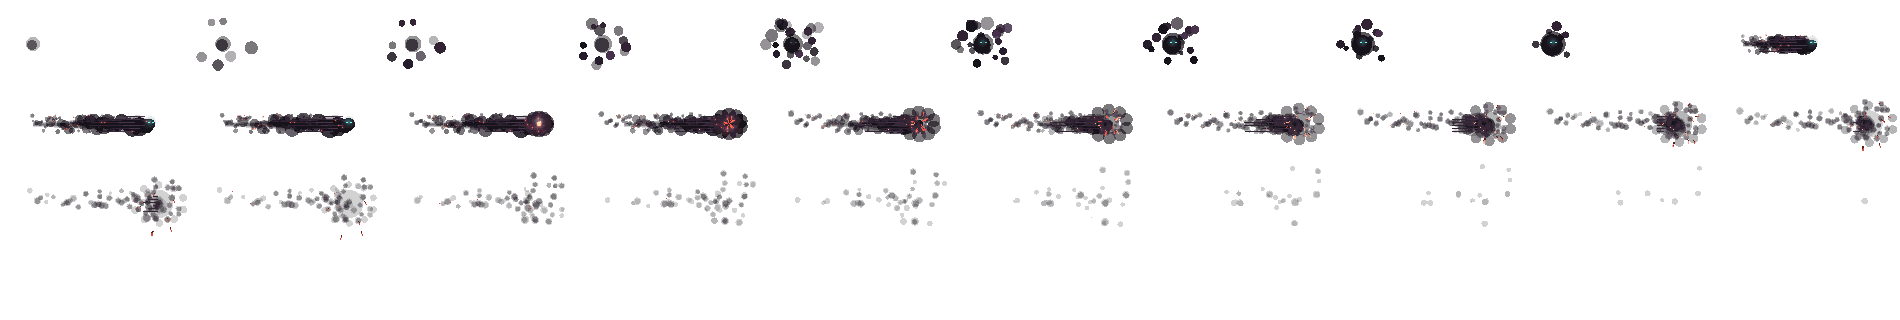
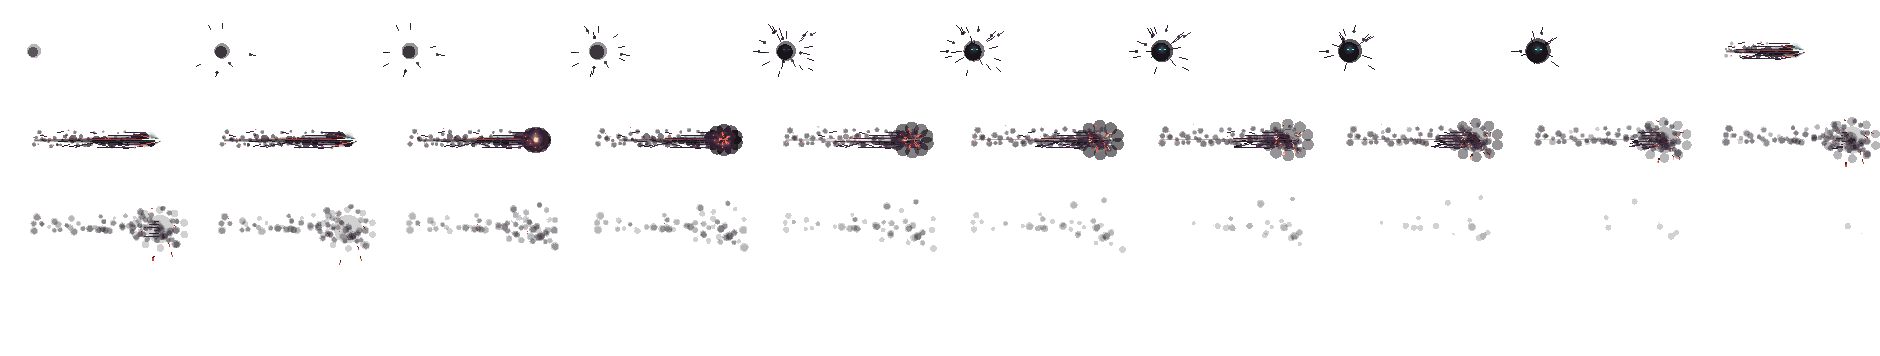
처형인 연기 돌진 더 날카롭게: 모일 때 연기 줄기, 쐐기 머리, 붉은 칼날 선, 깎여 나가는 조각, 멈춘 뒤 지나간 길이 베이듯 번쩍
Claude-Session: https://claude.ai/code/session_01CPuQwRxjahy2BkbhjWZhoU

diff --git a/test/golem.html b/test/golem.html
@@ -491,7 +491,7 @@ const giantImg = new Image(); giantImg.src = "../assets/giant.png";
 // 골렘 이펙트 시트 (pixelfx로 만든 것: fire/golem-meteor, nature/lava-crater, nature/lava-spire → art/golemfx/golemfx_pack.py). px, py = 착지점
 const GFX = {"meteor": {"w": 238, "h": 300, "cols": 8, "n": 64, "fps": 15, "px": 130, "py": 270}, "crater": {"w": 232, "h": 132, "cols": 8, "n": 47, "fps": 15, "px": 116, "py": 104}, "spire": {"w": 176, "h": 114, "cols": 11, "n": 40, "fps": 15, "px": 88, "py": 98}};
 GFX.lance = {"w": 248, "h": 56, "n": 17, "fps": 30, "px": 8, "py": 28, "L": 224};   // pixelfx melee/spectral-comet (전엔 spectral-lance): 세로로 쌓은 프레임, 창 길이 L 을 돌진 거리만큼 늘려 그린다
-Object.assign(GFX, {"xsmoke":{"w":190,"h":80,"cols":10,"n":31,"fps":30,"px":33,"py":60},"wring":{"w":128,"h":60,"cols":13,"n":13,"fps":14,"px":64,"py":47},"wstar":{"w":51,"h":48,"cols":6,"n":6,"fps":14,"px":25,"py":24},"wwind":{"w":80,"h":34,"cols":15,"n":15,"fps":14,"px":40,"py":17},"whit":{"w":54,"h":59,"cols":8,"n":8,"fps":16,"px":27,"py":29},"harrow":{"w":57,"h":15,"cols":35,"n":12,"fps":30,"px":52,"py":8},"hpow":{"w":139,"h":34,"cols":14,"n":12,"fps":30,"px":128,"py":17},"hrel":{"w":71,"h":63,"cols":28,"n":11,"fps":30,"px":15,"py":32},"hring":{"w":24,"h":24,"cols":85,"n":7,"fps":30,"px":6,"py":12},"hringw":{"w":24,"h":24,"cols":85,"n":7,"fps":30,"px":6,"py":12},"harroww":{"w":57,"h":15,"cols":35,"n":12,"fps":30,"px":52,"py":8},"hchg":{"w":38,"h":40,"cols":53,"n":18,"fps":30,"px":19,"py":20},"hchg3":{"w":44,"h":43,"cols":46,"n":18,"fps":30,"px":19,"py":21},"hlbolt":{"w":102,"h":13,"cols":20,"n":9,"fps":30,"px":96,"py":6},"hlbeam":{"w":300,"h":50,"cols":6,"n":15,"fps":30,"px":12,"py":25},"himp":{"w":44,"h":24,"cols":46,"n":11,"fps":30,"px":22,"py":18},"hrain":{"w":74,"h":15,"cols":27,"n":9,"fps":30,"px":70,"py":7},"hrainw":{"w":74,"h":15,"cols":27,"n":9,"fps":30,"px":70,"py":7},"whowl":{"w":220,"h":125,"cols":9,"n":24,"fps":30,"px":110,"py":97},"wice":{"w":56,"h":58,"cols":9,"n":9,"fps":14,"px":28,"py":56},"wbreak":{"w":56,"h":58,"cols":11,"n":11,"fps":14,"px":28,"py":56},});   // 사냥꾼: 영상 이펙트를 pixelfx로 (화살·흰 화살·빔 화살·쏘는 고리·모으기) (pixelfx projectiles/emerald-*, art/hunterfx/hunterfx_pack.py)
+Object.assign(GFX, {"xsmoke":{"w":188,"h":89,"cols":10,"n":31,"fps":30,"px":34,"py":67},"wring":{"w":128,"h":60,"cols":13,"n":13,"fps":14,"px":64,"py":47},"wstar":{"w":51,"h":48,"cols":6,"n":6,"fps":14,"px":25,"py":24},"wwind":{"w":80,"h":34,"cols":15,"n":15,"fps":14,"px":40,"py":17},"whit":{"w":54,"h":59,"cols":8,"n":8,"fps":16,"px":27,"py":29},"harrow":{"w":57,"h":15,"cols":35,"n":12,"fps":30,"px":52,"py":8},"hpow":{"w":139,"h":34,"cols":14,"n":12,"fps":30,"px":128,"py":17},"hrel":{"w":71,"h":63,"cols":28,"n":11,"fps":30,"px":15,"py":32},"hring":{"w":24,"h":24,"cols":85,"n":7,"fps":30,"px":6,"py":12},"hringw":{"w":24,"h":24,"cols":85,"n":7,"fps":30,"px":6,"py":12},"harroww":{"w":57,"h":15,"cols":35,"n":12,"fps":30,"px":52,"py":8},"hchg":{"w":38,"h":40,"cols":53,"n":18,"fps":30,"px":19,"py":20},"hchg3":{"w":44,"h":43,"cols":46,"n":18,"fps":30,"px":19,"py":21},"hlbolt":{"w":102,"h":13,"cols":20,"n":9,"fps":30,"px":96,"py":6},"hlbeam":{"w":300,"h":50,"cols":6,"n":15,"fps":30,"px":12,"py":25},"himp":{"w":44,"h":24,"cols":46,"n":11,"fps":30,"px":22,"py":18},"hrain":{"w":74,"h":15,"cols":27,"n":9,"fps":30,"px":70,"py":7},"hrainw":{"w":74,"h":15,"cols":27,"n":9,"fps":30,"px":70,"py":7},"whowl":{"w":220,"h":125,"cols":9,"n":24,"fps":30,"px":110,"py":97},"wice":{"w":56,"h":58,"cols":9,"n":9,"fps":14,"px":28,"py":56},"wbreak":{"w":56,"h":58,"cols":11,"n":11,"fps":14,"px":28,"py":56},});   // 사냥꾼: 영상 이펙트를 pixelfx로 (화살·흰 화살·빔 화살·쏘는 고리·모으기) (pixelfx projectiles/emerald-*, art/hunterfx/hunterfx_pack.py)
 const gfxImg = {}; for (const k in GFX) { gfxImg[k] = new Image(); gfxImg[k].src = `../assets/gfx_${k}.png`; }
 const GFX_METEOR_HIT = 0.8, GFX_SPIRE_UP = 0.2;            // 시트 안에서 운석이 닿는 때, 돌기둥이 솟는 때
 function gfx(key, x, rate = 1) { if (!ready(gfxImg[key])) return false; spawn({ kind: "gfx", key, x, t: 0, rate }); return true; }

diff --git a/test/helm.html b/test/helm.html
@@ -495,7 +495,7 @@ const giantImg = new Image(); giantImg.src = "../assets/giant.png";
 // 골렘 이펙트 시트 (pixelfx로 만든 것: fire/golem-meteor, nature/lava-crater, nature/lava-spire → art/golemfx/golemfx_pack.py). px, py = 착지점
 const GFX = {"meteor": {"w": 238, "h": 300, "cols": 8, "n": 64, "fps": 15, "px": 130, "py": 270}, "crater": {"w": 232, "h": 132, "cols": 8, "n": 47, "fps": 15, "px": 116, "py": 104}, "spire": {"w": 176, "h": 114, "cols": 11, "n": 40, "fps": 15, "px": 88, "py": 98}};
 GFX.lance = {"w": 248, "h": 56, "n": 17, "fps": 30, "px": 8, "py": 28, "L": 224};   // pixelfx melee/spectral-comet (전엔 spectral-lance): 세로로 쌓은 프레임, 창 길이 L 을 돌진 거리만큼 늘려 그린다
-Object.assign(GFX, {"xsmoke":{"w":190,"h":80,"cols":10,"n":31,"fps":30,"px":33,"py":60},"wring":{"w":128,"h":60,"cols":13,"n":13,"fps":14,"px":64,"py":47},"wstar":{"w":51,"h":48,"cols":6,"n":6,"fps":14,"px":25,"py":24},"wwind":{"w":80,"h":34,"cols":15,"n":15,"fps":14,"px":40,"py":17},"whit":{"w":54,"h":59,"cols":8,"n":8,"fps":16,"px":27,"py":29},"harrow":{"w":57,"h":15,"cols":35,"n":12,"fps":30,"px":52,"py":8},"hpow":{"w":139,"h":34,"cols":14,"n":12,"fps":30,"px":128,"py":17},"hrel":{"w":71,"h":63,"cols":28,"n":11,"fps":30,"px":15,"py":32},"hring":{"w":24,"h":24,"cols":85,"n":7,"fps":30,"px":6,"py":12},"hringw":{"w":24,"h":24,"cols":85,"n":7,"fps":30,"px":6,"py":12},"harroww":{"w":57,"h":15,"cols":35,"n":12,"fps":30,"px":52,"py":8},"hchg":{"w":38,"h":40,"cols":53,"n":18,"fps":30,"px":19,"py":20},"hchg3":{"w":44,"h":43,"cols":46,"n":18,"fps":30,"px":19,"py":21},"hlbolt":{"w":102,"h":13,"cols":20,"n":9,"fps":30,"px":96,"py":6},"hlbeam":{"w":300,"h":50,"cols":6,"n":15,"fps":30,"px":12,"py":25},"himp":{"w":44,"h":24,"cols":46,"n":11,"fps":30,"px":22,"py":18},"hrain":{"w":74,"h":15,"cols":27,"n":9,"fps":30,"px":70,"py":7},"hrainw":{"w":74,"h":15,"cols":27,"n":9,"fps":30,"px":70,"py":7},"whowl":{"w":220,"h":125,"cols":9,"n":24,"fps":30,"px":110,"py":97},"wice":{"w":56,"h":58,"cols":9,"n":9,"fps":14,"px":28,"py":56},"wbreak":{"w":56,"h":58,"cols":11,"n":11,"fps":14,"px":28,"py":56},});   // 사냥꾼: 영상 이펙트를 pixelfx로 (화살·흰 화살·빔 화살·쏘는 고리·모으기) (pixelfx projectiles/emerald-*, art/hunterfx/hunterfx_pack.py)
+Object.assign(GFX, {"xsmoke":{"w":188,"h":89,"cols":10,"n":31,"fps":30,"px":34,"py":67},"wring":{"w":128,"h":60,"cols":13,"n":13,"fps":14,"px":64,"py":47},"wstar":{"w":51,"h":48,"cols":6,"n":6,"fps":14,"px":25,"py":24},"wwind":{"w":80,"h":34,"cols":15,"n":15,"fps":14,"px":40,"py":17},"whit":{"w":54,"h":59,"cols":8,"n":8,"fps":16,"px":27,"py":29},"harrow":{"w":57,"h":15,"cols":35,"n":12,"fps":30,"px":52,"py":8},"hpow":{"w":139,"h":34,"cols":14,"n":12,"fps":30,"px":128,"py":17},"hrel":{"w":71,"h":63,"cols":28,"n":11,"fps":30,"px":15,"py":32},"hring":{"w":24,"h":24,"cols":85,"n":7,"fps":30,"px":6,"py":12},"hringw":{"w":24,"h":24,"cols":85,"n":7,"fps":30,"px":6,"py":12},"harroww":{"w":57,"h":15,"cols":35,"n":12,"fps":30,"px":52,"py":8},"hchg":{"w":38,"h":40,"cols":53,"n":18,"fps":30,"px":19,"py":20},"hchg3":{"w":44,"h":43,"cols":46,"n":18,"fps":30,"px":19,"py":21},"hlbolt":{"w":102,"h":13,"cols":20,"n":9,"fps":30,"px":96,"py":6},"hlbeam":{"w":300,"h":50,"cols":6,"n":15,"fps":30,"px":12,"py":25},"himp":{"w":44,"h":24,"cols":46,"n":11,"fps":30,"px":22,"py":18},"hrain":{"w":74,"h":15,"cols":27,"n":9,"fps":30,"px":70,"py":7},"hrainw":{"w":74,"h":15,"cols":27,"n":9,"fps":30,"px":70,"py":7},"whowl":{"w":220,"h":125,"cols":9,"n":24,"fps":30,"px":110,"py":97},"wice":{"w":56,"h":58,"cols":9,"n":9,"fps":14,"px":28,"py":56},"wbreak":{"w":56,"h":58,"cols":11,"n":11,"fps":14,"px":28,"py":56},});   // 사냥꾼: 영상 이펙트를 pixelfx로 (화살·흰 화살·빔 화살·쏘는 고리·모으기) (pixelfx projectiles/emerald-*, art/hunterfx/hunterfx_pack.py)
 const gfxImg = {}; for (const k in GFX) { gfxImg[k] = new Image(); gfxImg[k].src = `../assets/gfx_${k}.png`; }
 const GFX_METEOR_HIT = 0.8, GFX_SPIRE_UP = 0.2;            // 시트 안에서 운석이 닿는 때, 돌기둥이 솟는 때
 function gfx(key, x, rate = 1) { if (!ready(gfxImg[key])) return false; spawn({ kind: "gfx", key, x, t: 0, rate }); return true; }

diff --git a/test/sword.html b/test/sword.html
@@ -491,7 +491,7 @@ const giantImg = new Image(); giantImg.src = "../assets/giant.png";
 // 골렘 이펙트 시트 (pixelfx로 만든 것: fire/golem-meteor, nature/lava-crater, nature/lava-spire → art/golemfx/golemfx_pack.py). px, py = 착지점
 const GFX = {"meteor": {"w": 238, "h": 300, "cols": 8, "n": 64, "fps": 15, "px": 130, "py": 270}, "crater": {"w": 232, "h": 132, "cols": 8, "n": 47, "fps": 15, "px": 116, "py": 104}, "spire": {"w": 176, "h": 114, "cols": 11, "n": 40, "fps": 15, "px": 88, "py": 98}};
 GFX.lance = {"w": 248, "h": 56, "n": 17, "fps": 30, "px": 8, "py": 28, "L": 224};   // pixelfx melee/spectral-comet (전엔 spectral-lance): 세로로 쌓은 프레임, 창 길이 L 을 돌진 거리만큼 늘려 그린다
-Object.assign(GFX, {"xsmoke":{"w":190,"h":80,"cols":10,"n":31,"fps":30,"px":33,"py":60},"wring":{"w":128,"h":60,"cols":13,"n":13,"fps":14,"px":64,"py":47},"wstar":{"w":51,"h":48,"cols":6,"n":6,"fps":14,"px":25,"py":24},"wwind":{"w":80,"h":34,"cols":15,"n":15,"fps":14,"px":40,"py":17},"whit":{"w":54,"h":59,"cols":8,"n":8,"fps":16,"px":27,"py":29},"harrow":{"w":57,"h":15,"cols":35,"n":12,"fps":30,"px":52,"py":8},"hpow":{"w":139,"h":34,"cols":14,"n":12,"fps":30,"px":128,"py":17},"hrel":{"w":71,"h":63,"cols":28,"n":11,"fps":30,"px":15,"py":32},"hring":{"w":24,"h":24,"cols":85,"n":7,"fps":30,"px":6,"py":12},"hringw":{"w":24,"h":24,"cols":85,"n":7,"fps":30,"px":6,"py":12},"harroww":{"w":57,"h":15,"cols":35,"n":12,"fps":30,"px":52,"py":8},"hchg":{"w":38,"h":40,"cols":53,"n":18,"fps":30,"px":19,"py":20},"hchg3":{"w":44,"h":43,"cols":46,"n":18,"fps":30,"px":19,"py":21},"hlbolt":{"w":102,"h":13,"cols":20,"n":9,"fps":30,"px":96,"py":6},"hlbeam":{"w":300,"h":50,"cols":6,"n":15,"fps":30,"px":12,"py":25},"himp":{"w":44,"h":24,"cols":46,"n":11,"fps":30,"px":22,"py":18},"hrain":{"w":74,"h":15,"cols":27,"n":9,"fps":30,"px":70,"py":7},"hrainw":{"w":74,"h":15,"cols":27,"n":9,"fps":30,"px":70,"py":7},"whowl":{"w":220,"h":125,"cols":9,"n":24,"fps":30,"px":110,"py":97},"wice":{"w":56,"h":58,"cols":9,"n":9,"fps":14,"px":28,"py":56},"wbreak":{"w":56,"h":58,"cols":11,"n":11,"fps":14,"px":28,"py":56},});   // 사냥꾼: 영상 이펙트를 pixelfx로 (화살·흰 화살·빔 화살·쏘는 고리·모으기) (pixelfx projectiles/emerald-*, art/hunterfx/hunterfx_pack.py)
+Object.assign(GFX, {"xsmoke":{"w":188,"h":89,"cols":10,"n":31,"fps":30,"px":34,"py":67},"wring":{"w":128,"h":60,"cols":13,"n":13,"fps":14,"px":64,"py":47},"wstar":{"w":51,"h":48,"cols":6,"n":6,"fps":14,"px":25,"py":24},"wwind":{"w":80,"h":34,"cols":15,"n":15,"fps":14,"px":40,"py":17},"whit":{"w":54,"h":59,"cols":8,"n":8,"fps":16,"px":27,"py":29},"harrow":{"w":57,"h":15,"cols":35,"n":12,"fps":30,"px":52,"py":8},"hpow":{"w":139,"h":34,"cols":14,"n":12,"fps":30,"px":128,"py":17},"hrel":{"w":71,"h":63,"cols":28,"n":11,"fps":30,"px":15,"py":32},"hring":{"w":24,"h":24,"cols":85,"n":7,"fps":30,"px":6,"py":12},"hringw":{"w":24,"h":24,"cols":85,"n":7,"fps":30,"px":6,"py":12},"harroww":{"w":57,"h":15,"cols":35,"n":12,"fps":30,"px":52,"py":8},"hchg":{"w":38,"h":40,"cols":53,"n":18,"fps":30,"px":19,"py":20},"hchg3":{"w":44,"h":43,"cols":46,"n":18,"fps":30,"px":19,"py":21},"hlbolt":{"w":102,"h":13,"cols":20,"n":9,"fps":30,"px":96,"py":6},"hlbeam":{"w":300,"h":50,"cols":6,"n":15,"fps":30,"px":12,"py":25},"himp":{"w":44,"h":24,"cols":46,"n":11,"fps":30,"px":22,"py":18},"hrain":{"w":74,"h":15,"cols":27,"n":9,"fps":30,"px":70,"py":7},"hrainw":{"w":74,"h":15,"cols":27,"n":9,"fps":30,"px":70,"py":7},"whowl":{"w":220,"h":125,"cols":9,"n":24,"fps":30,"px":110,"py":97},"wice":{"w":56,"h":58,"cols":9,"n":9,"fps":14,"px":28,"py":56},"wbreak":{"w":56,"h":58,"cols":11,"n":11,"fps":14,"px":28,"py":56},});   // 사냥꾼: 영상 이펙트를 pixelfx로 (화살·흰 화살·빔 화살·쏘는 고리·모으기) (pixelfx projectiles/emerald-*, art/hunterfx/hunterfx_pack.py)
 const gfxImg = {}; for (const k in GFX) { gfxImg[k] = new Image(); gfxImg[k].src = `../assets/gfx_${k}.png`; }
 const GFX_METEOR_HIT = 0.8, GFX_SPIRE_UP = 0.2;            // 시트 안에서 운석이 닿는 때, 돌기둥이 솟는 때
 function gfx(key, x, rate = 1) { if (!ready(gfxImg[key])) return false; spawn({ kind: "gfx", key, x, t: 0, rate }); return true; }

diff --git a/index.html b/index.html
@@ -492,7 +492,7 @@ const giantImg = new Image(); giantImg.src = "assets/giant.png";
 // 골렘 이펙트 시트 (pixelfx로 만든 것: fire/golem-meteor, nature/lava-crater, nature/lava-spire → art/golemfx/golemfx_pack.py). px, py = 착지점
 const GFX = {"meteor": {"w": 238, "h": 300, "cols": 8, "n": 64, "fps": 15, "px": 130, "py": 270}, "crater": {"w": 232, "h": 132, "cols": 8, "n": 47, "fps": 15, "px": 116, "py": 104}, "spire": {"w": 176, "h": 114, "cols": 11, "n": 40, "fps": 15, "px": 88, "py": 98}};
 GFX.lance = {"w": 248, "h": 56, "n": 17, "fps": 30, "px": 8, "py": 28, "L": 224};   // pixelfx melee/spectral-comet (전엔 spectral-lance): 세로로 쌓은 프레임, 창 길이 L 을 돌진 거리만큼 늘려 그린다
-Object.assign(GFX, {"xsmoke":{"w":190,"h":80,"cols":10,"n":31,"fps":30,"px":33,"py":60},"wring":{"w":128,"h":60,"cols":13,"n":13,"fps":14,"px":64,"py":47},"wstar":{"w":51,"h":48,"cols":6,"n":6,"fps":14,"px":25,"py":24},"wwind":{"w":80,"h":34,"cols":15,"n":15,"fps":14,"px":40,"py":17},"whit":{"w":54,"h":59,"cols":8,"n":8,"fps":16,"px":27,"py":29},"harrow":{"w":57,"h":15,"cols":35,"n":12,"fps":30,"px":52,"py":8},"hpow":{"w":139,"h":34,"cols":14,"n":12,"fps":30,"px":128,"py":17},"hrel":{"w":71,"h":63,"cols":28,"n":11,"fps":30,"px":15,"py":32},"hring":{"w":24,"h":24,"cols":85,"n":7,"fps":30,"px":6,"py":12},"hringw":{"w":24,"h":24,"cols":85,"n":7,"fps":30,"px":6,"py":12},"harroww":{"w":57,"h":15,"cols":35,"n":12,"fps":30,"px":52,"py":8},"hchg":{"w":38,"h":40,"cols":53,"n":18,"fps":30,"px":19,"py":20},"hchg3":{"w":44,"h":43,"cols":46,"n":18,"fps":30,"px":19,"py":21},"hlbolt":{"w":102,"h":13,"cols":20,"n":9,"fps":30,"px":96,"py":6},"hlbeam":{"w":300,"h":50,"cols":6,"n":15,"fps":30,"px":12,"py":25},"himp":{"w":44,"h":24,"cols":46,"n":11,"fps":30,"px":22,"py":18},"hrain":{"w":74,"h":15,"cols":27,"n":9,"fps":30,"px":70,"py":7},"hrainw":{"w":74,"h":15,"cols":27,"n":9,"fps":30,"px":70,"py":7},"whowl":{"w":220,"h":125,"cols":9,"n":24,"fps":30,"px":110,"py":97},"wice":{"w":56,"h":58,"cols":9,"n":9,"fps":14,"px":28,"py":56},"wbreak":{"w":56,"h":58,"cols":11,"n":11,"fps":14,"px":28,"py":56},});   // 사냥꾼: 영상 이펙트를 pixelfx로 (화살·흰 화살·빔 화살·쏘는 고리·모으기) (pixelfx projectiles/emerald-*, art/hunterfx/hunterfx_pack.py)
+Object.assign(GFX, {"xsmoke":{"w":188,"h":89,"cols":10,"n":31,"fps":30,"px":34,"py":67},"wring":{"w":128,"h":60,"cols":13,"n":13,"fps":14,"px":64,"py":47},"wstar":{"w":51,"h":48,"cols":6,"n":6,"fps":14,"px":25,"py":24},"wwind":{"w":80,"h":34,"cols":15,"n":15,"fps":14,"px":40,"py":17},"whit":{"w":54,"h":59,"cols":8,"n":8,"fps":16,"px":27,"py":29},"harrow":{"w":57,"h":15,"cols":35,"n":12,"fps":30,"px":52,"py":8},"hpow":{"w":139,"h":34,"cols":14,"n":12,"fps":30,"px":128,"py":17},"hrel":{"w":71,"h":63,"cols":28,"n":11,"fps":30,"px":15,"py":32},"hring":{"w":24,"h":24,"cols":85,"n":7,"fps":30,"px":6,"py":12},"hringw":{"w":24,"h":24,"cols":85,"n":7,"fps":30,"px":6,"py":12},"harroww":{"w":57,"h":15,"cols":35,"n":12,"fps":30,"px":52,"py":8},"hchg":{"w":38,"h":40,"cols":53,"n":18,"fps":30,"px":19,"py":20},"hchg3":{"w":44,"h":43,"cols":46,"n":18,"fps":30,"px":19,"py":21},"hlbolt":{"w":102,"h":13,"cols":20,"n":9,"fps":30,"px":96,"py":6},"hlbeam":{"w":300,"h":50,"cols":6,"n":15,"fps":30,"px":12,"py":25},"himp":{"w":44,"h":24,"cols":46,"n":11,"fps":30,"px":22,"py":18},"hrain":{"w":74,"h":15,"cols":27,"n":9,"fps":30,"px":70,"py":7},"hrainw":{"w":74,"h":15,"cols":27,"n":9,"fps":30,"px":70,"py":7},"whowl":{"w":220,"h":125,"cols":9,"n":24,"fps":30,"px":110,"py":97},"wice":{"w":56,"h":58,"cols":9,"n":9,"fps":14,"px":28,"py":56},"wbreak":{"w":56,"h":58,"cols":11,"n":11,"fps":14,"px":28,"py":56},});   // 사냥꾼: 영상 이펙트를 pixelfx로 (화살·흰 화살·빔 화살·쏘는 고리·모으기) (pixelfx projectiles/emerald-*, art/hunterfx/hunterfx_pack.py)
 const gfxImg = {}; for (const k in GFX) { gfxImg[k] = new Image(); gfxImg[k].src = `assets/gfx_${k}.png`; }
 const GFX_METEOR_HIT = 0.8, GFX_SPIRE_UP = 0.2;            // 시트 안에서 운석이 닿는 때, 돌기둥이 솟는 때
 function gfx(key, x, rate = 1) { if (!ready(gfxImg[key])) return false; spawn({ kind: "gfx", key, x, t: 0, rate }); return true; }
